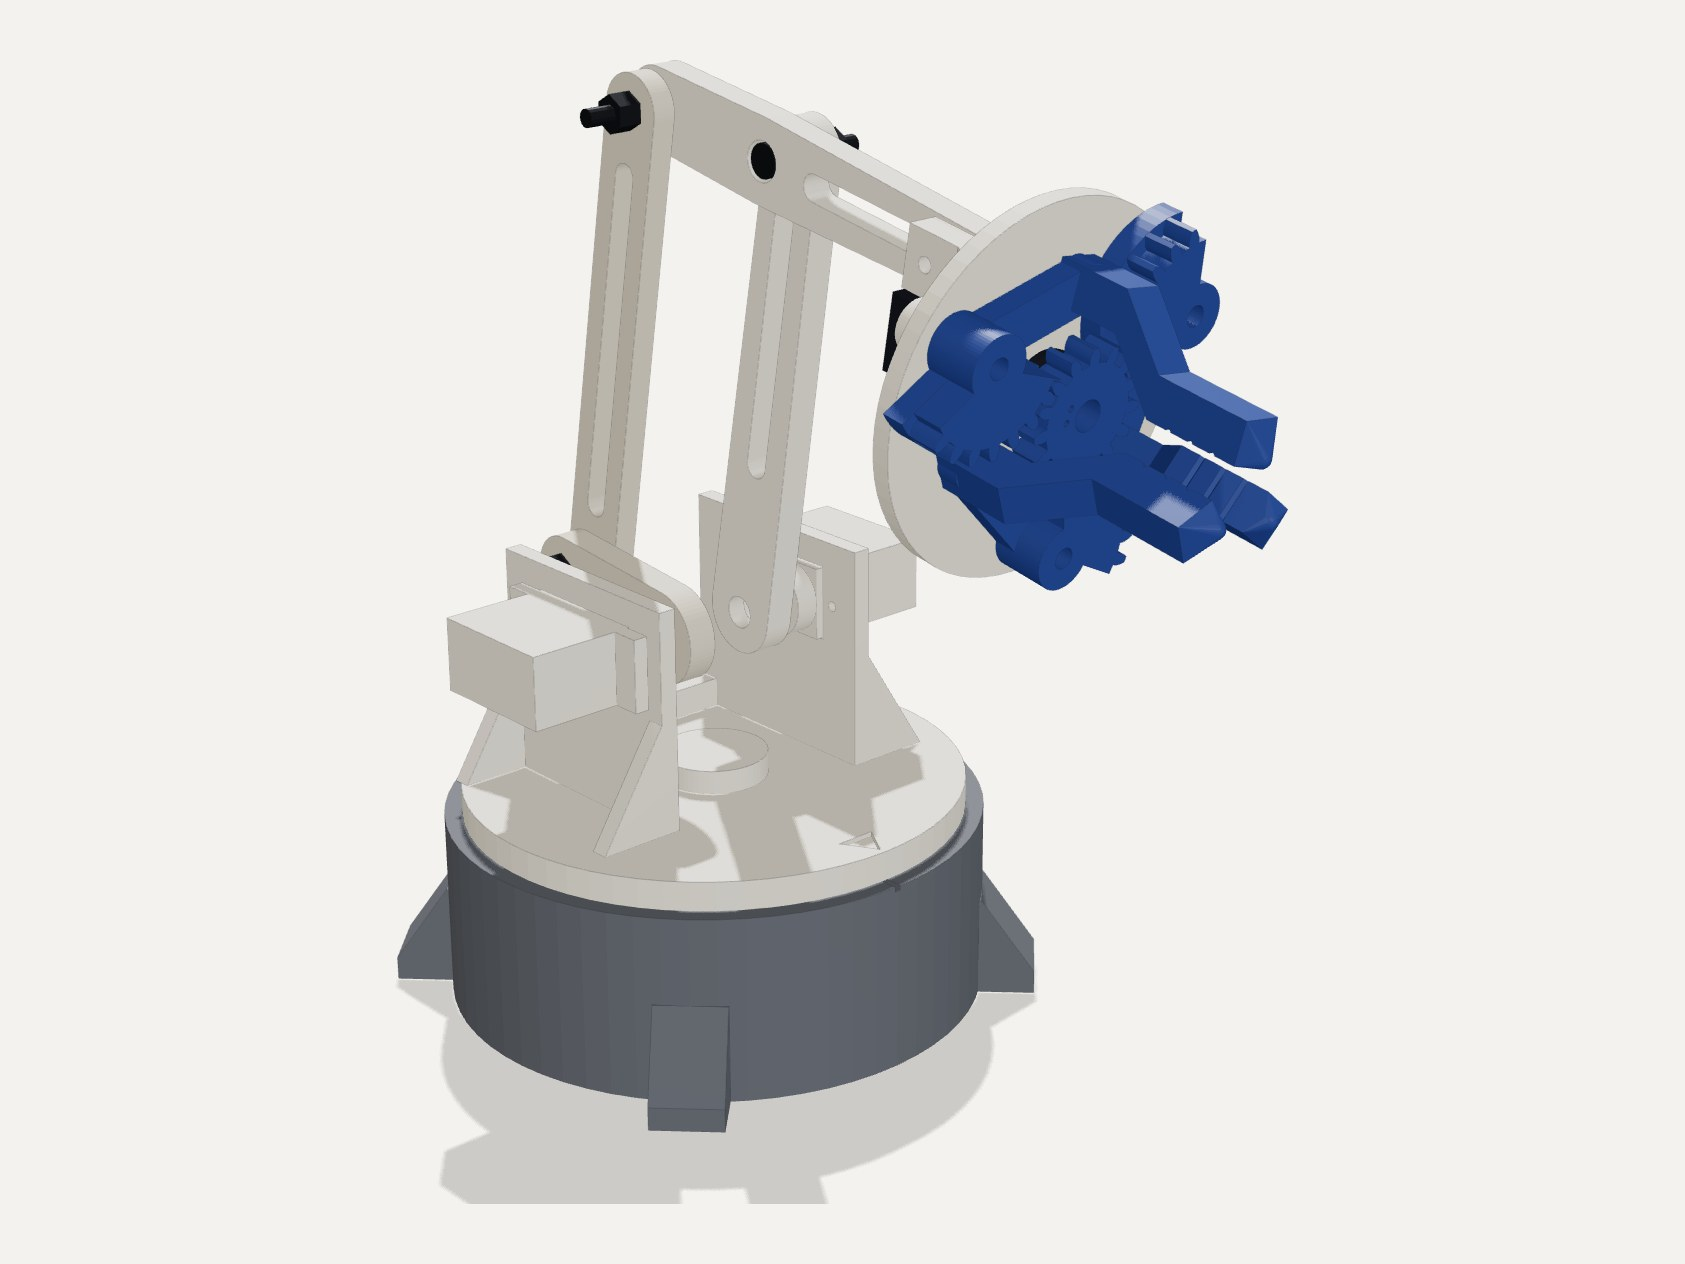
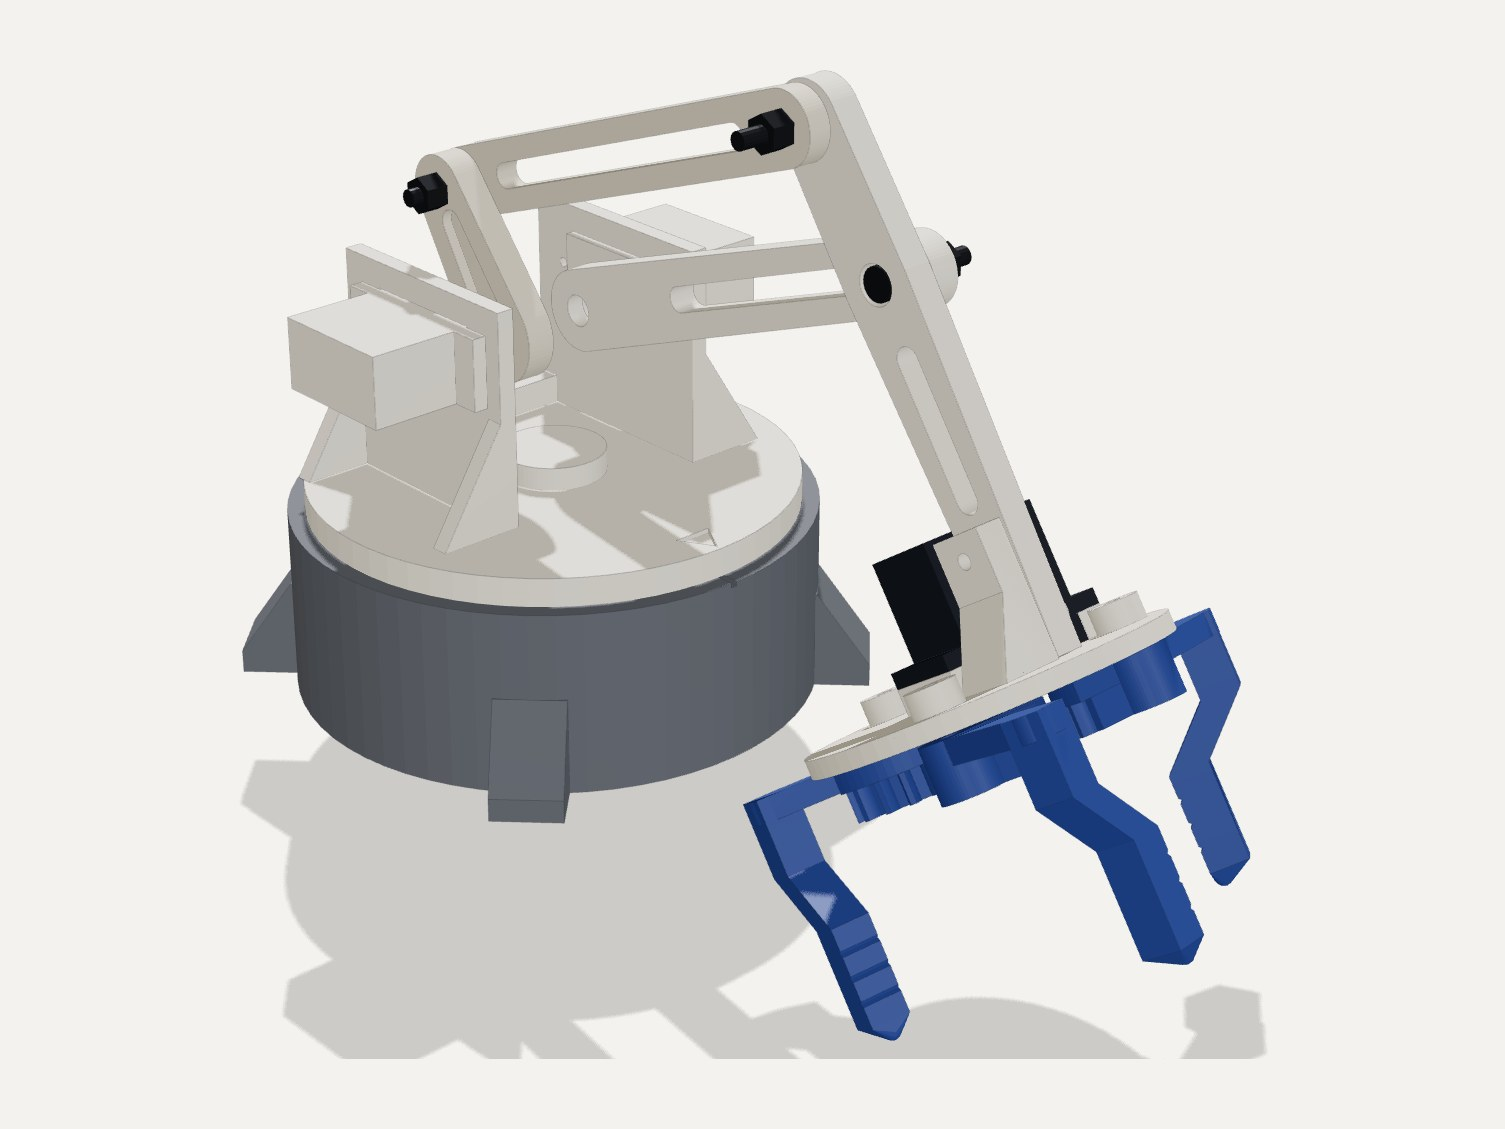
Show the claw open in the grab pose on the homepage card

diff --git a/lib/content.ts b/lib/content.ts
@@ -45,7 +45,7 @@ export const caseStudies: CaseStudy[] = [
     role: "Arm and claw design, arm firmware",
     tools: ["OpenSCAD", "3D printing", "ESP32", "Inverse kinematics"],
     cover: "/projects/morph-claw-arm/cover.jpg",
-    coverAlt: "CAD render of the robot arm with its three-finger claw closed into a pointer",
+    coverAlt: "CAD render of the robot arm reaching down with its three-finger claw open",
   },
   {
     slug: "negative-pressure-helmet",
